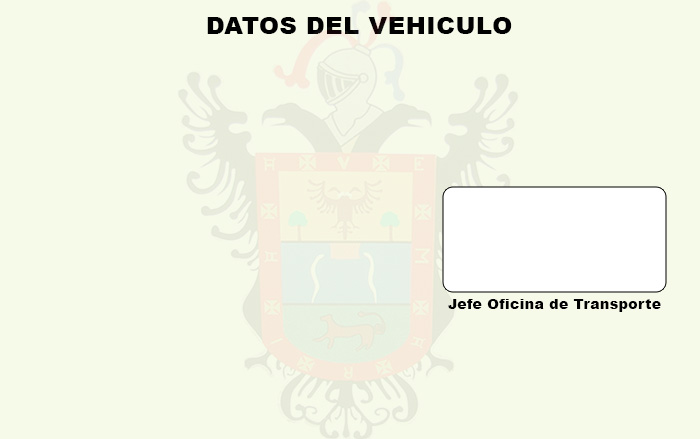
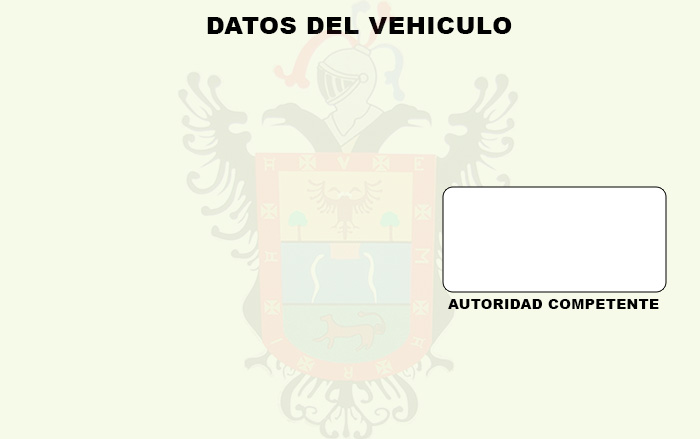
Autoridades

Changed region(s): [[0.63, 0.6811, 0.96, 0.7107]]

diff --git a/reporte/views.py b/reporte/views.py
@@ -17,7 +17,7 @@ from reportlab.graphics import renderPDF
 from reportlab.pdfgen import canvas
 from reportlab.graphics.barcode import code39, code93, qr
 
-from base.models import TarjetaCirculacion
+from base.models import TarjetaCirculacion, Autoridad
 
 def normal_custom(size, alignment):
     return ParagraphStyle(
@@ -98,6 +98,13 @@ class ImpresionTarjeta:
         logo = 'static/pag2.jpg'
         canvas.drawImage(logo, 0 * cm, 0 * cm, width = (8.5 * cm), height = (5.28 * cm))
 
+        autoridad = Autoridad.objects.filter(activo = True)
+        if autoridad.count() > 0:
+            autoridad = autoridad[0]
+
+            firma = str(autoridad.firma_autoridad)
+            canvas.drawImage(firma, 54.3 * mm, 2 * cm, width = (2.6 * cm), height = (1 * cm))
+
         asientos = Paragraph(u'Asientos: <strong>'+str(self.tarjeta.asientos)+'</strong>', normal_custom(8.5, TA_LEFT))
         w, h = asientos.wrap(doc.width, doc.topMargin)
         asientos.drawOn(canvas, 52 * mm, 44.1 * mm)
@@ -141,13 +148,13 @@ class ImpresionTarjeta:
         p = Paragraph('Placa: <strong>' + self.tarjeta.placa +'</strong>', normal_custom2(8.5, TA_LEFT))
         elements.append(p)
 
-        p = Paragraph('Razon Social: <strong>' + self.tarjeta.resolucion_autorizacion.razon_social.razon_social +'</strong>', normal_custom2(8.5, TA_LEFT))
+        p = Paragraph('Razón Social: <strong>' + self.tarjeta.resolucion_autorizacion.razon_social.razon_social +'</strong>', normal_custom2(8.5, TA_LEFT))
         elements.append(p)
 
         p = Paragraph('Propietario: <strong>' + self.tarjeta.propietario + '</strong>' , normal_custom2(8.5, TA_LEFT))
         elements.append(p)
 
-        p = Paragraph('Fecha de Expedicion: <strong>' + str(self.tarjeta.fecha_expedicion) + '</strong>', normal_custom2(8.5, TA_LEFT))
+        p = Paragraph('Fecha de Expedición: <strong>' + str(self.tarjeta.fecha_expedicion) + '</strong>', normal_custom2(8.5, TA_LEFT))
         elements.append(p)
 
 
@@ -164,7 +171,7 @@ class ImpresionTarjeta:
         p = Paragraph('Modelo: <strong>'+ self.tarjeta.modelo +'</strong>', normal_custom(8.5, TA_LEFT))
         elements.append(p)
 
-        p = Paragraph('Año Fabricacion: <strong>'+ str(self.tarjeta.anio_fabricacion)+'</strong>', normal_custom(8.5, TA_LEFT))
+        p = Paragraph('Año Fabricación: <strong>'+ str(self.tarjeta.anio_fabricacion)+'</strong>', normal_custom(8.5, TA_LEFT))
         elements.append(p)
 
         p = Paragraph('Color: <strong>'+ self.tarjeta.color+'</strong>', normal_custom(8.5, TA_LEFT))
@@ -179,16 +186,13 @@ class ImpresionTarjeta:
         p = Paragraph('Serie Nro: <strong>'+self.tarjeta.nro_serie+'</strong>', normal_custom(8.5, TA_LEFT))
         elements.append(p)
 
-        p = Paragraph('Ruta: <strong>'+str(self.tarjeta.nro_ruta)+'</strong>', normal_custom(8.5, TA_LEFT))
+        p = Paragraph('Número de Ruta: <strong>'+str(self.tarjeta.nro_ruta)+'</strong>', normal_custom(8.5, TA_LEFT))
         elements.append(p)
 
         p = Paragraph('Origen: <strong>'+ self.tarjeta.origen+'</strong>', normal_custom(8.5, TA_LEFT))
         elements.append(p)
 
-        p = Paragraph('Poliza de Seguros: <strong>'+self.tarjeta.poliza_seguro+'</strong>', normal_custom(8.5, TA_LEFT))
-        elements.append(p)
-
-        p = Paragraph('Numero de Resolucion: <strong>'+str(self.tarjeta.resolucion_autorizacion)+'</strong>', normal_custom(8.5, TA_LEFT))
+        p = Paragraph('Número de Resolución: <strong>'+str(self.tarjeta.resolucion_autorizacion)+'</strong>', normal_custom(8.5, TA_LEFT))
         elements.append(p)
 
         #p = Paragraph(self.tarjeta.resolucion_autorizacion, normal_custom(8.5, TA_LEFT))

diff --git a/base/models.py b/base/models.py
@@ -8,7 +8,7 @@ class Entidad (models.Model):
 		('E', 'EMPRESA'),
 		('A', 'ASOCIACIÓN'),
 	)
-	tipo = models.CharField(max_length=1, choices=TIPO, default='EMPRESA')
+	tipo = models.CharField(max_length=1, choices=TIPO, default='E')
 	ruc = models.IntegerField()
 	razon_social = models.CharField(max_length=255)
 	direccion = models.CharField(max_length=255)
@@ -28,7 +28,7 @@ class PeriodoCirculacion(models.Model):
 	nro_cupos = models.IntegerField()
 	ruta_autorizada = models.CharField(max_length=255)
 	representante_legal = models.CharField(max_length=255)
-	vehiculo = models.CharField(max_length=1, choices=TIPO, default='Mayores')
+	vehiculo = models.CharField(max_length=1, choices=TIPO, default='1')
 	fechainicio_periodo = models.DateField()
 	fechafin_periodo = models.DateField()
 
@@ -64,5 +64,15 @@ class TarjetaCirculacion(models.Model):
 	class Meta:
 		verbose_name_plural='Tarjetas'
 
+class Autoridad(models.Model):
+    nombre_autoridad = models.CharField(max_length=255)
+    fecha_inicio_autoridad = models.DateField()
+    fecha_inicio_autoridad = models.DateField()
+    firma_autoridad = models.ImageField(upload_to='firmas_autoridad', max_length=100)
+    activo = models.BooleanField(default=False)
 
-# Create your models here.
+    class Meta:
+        verbose_name_plural='Autoridades'
+
+    def __str__(self):
+        return  self.nombre_autoridad

diff --git a/base/admin.py b/base/admin.py
@@ -3,8 +3,9 @@ from __future__ import unicode_literals
 
 from django.contrib import admin
 
-from base.models import Entidad, PeriodoCirculacion, TarjetaCirculacion
+from base.models import Entidad, PeriodoCirculacion, TarjetaCirculacion, Autoridad
 
 admin.site.register(Entidad)
 admin.site.register(PeriodoCirculacion)
 admin.site.register(TarjetaCirculacion)
+admin.site.register(Autoridad)	
